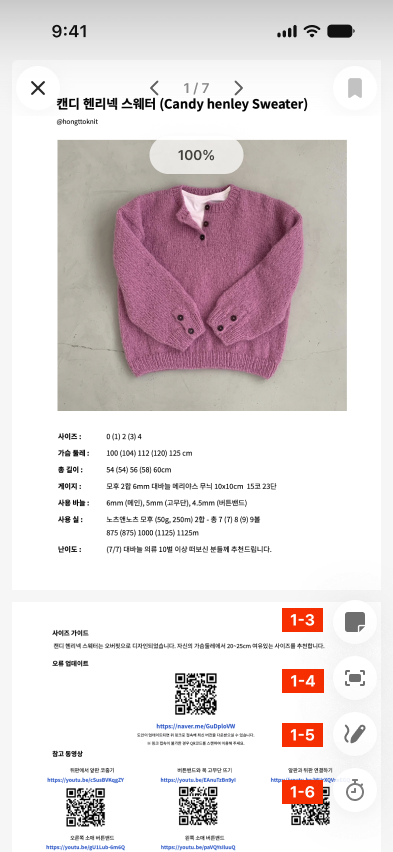
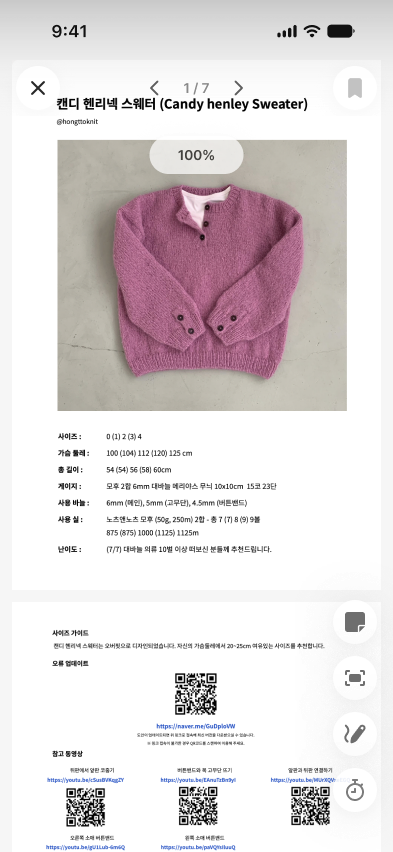
docs: PDF 뷰어 메모 문서 참고 디자인 링크·스크린샷 갱신 및 헤더 정리
Claude-Session: https://claude.ai/code/session_01YScwP4iG43GmF8BeNNiaB2

Changed region(s): [[0.7023, 0.7019, 0.8244, 0.885], [0.7023, 0.9155, 0.8244, 0.946]]

diff --git a/docs/tasks/pdf-viewer-memo.md b/docs/tasks/pdf-viewer-memo.md
@@ -1,8 +1,6 @@
 # [작업 요청] PDF 뷰어 메모 기능 추가
 
 > 작성일: 2026-10-05
-> 대상 화면: 기록 > 도안(PDF) 뷰어
-> 관련 코드: `src/app/(main)/projects/[id]/edit/page.tsx` (`PatternSheet`, `PdfViewer`), `src/store/projectStore.ts`
 
 ---
 
@@ -18,11 +16,10 @@
 
 | 화면 | 링크 | 스크린샷 |
 |---|---|---|
-| 기록_PDF 뷰어 (기본) | [node 5788-30012](https://www.figma.com/design/z6EFgx2NXyWofDE6pJNoTe/Knitters-App?node-id=5788-30012) | ![기본](./assets/pdf-viewer-default.png) |
-| 기록_PDF 뷰어 (메모) | [node 7589-63328](https://www.figma.com/design/z6EFgx2NXyWofDE6pJNoTe/Knitters-App?node-id=7589-63328) | ![메모](./assets/pdf-viewer-memo.png) |
+| 기록_PDF 뷰어 (기본) | [node 5932-43695](https://www.figma.com/design/z6EFgx2NXyWofDE6pJNoTe/Knitters-App?node-id=5932-43695) | ![기본](./assets/pdf-viewer-default.png) |
+| 기록_PDF 뷰어 (메모) | [node 7782-60118](https://www.figma.com/design/z6EFgx2NXyWofDE6pJNoTe/Knitters-App?node-id=7782-60118) | ![메모](./assets/pdf-viewer-memo.png) |
 
-- 기본 화면의 빨간 배지(`1-3` ~ `1-6`)는 기획 주석용 표시이므로 **구현하지 않는다.**
-- `1-3` 위치(버튼 스택 최상단)의 버튼이 이번에 새로 추가되는 **메모 버튼**이다.
+- 기본 화면 우측 하단 버튼 스택의 최상단 버튼이 이번에 새로 추가되는 **메모 버튼**이다.
 
 ---
 
